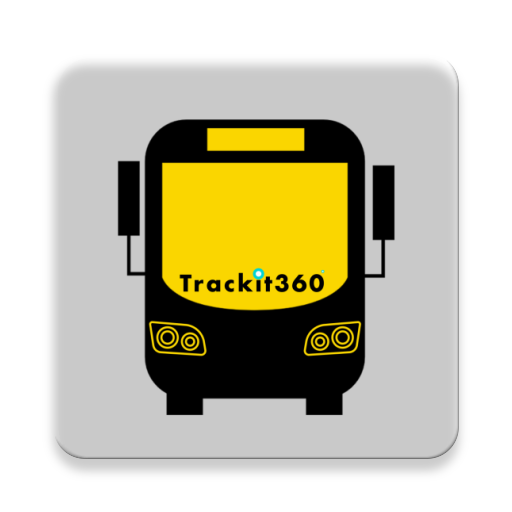
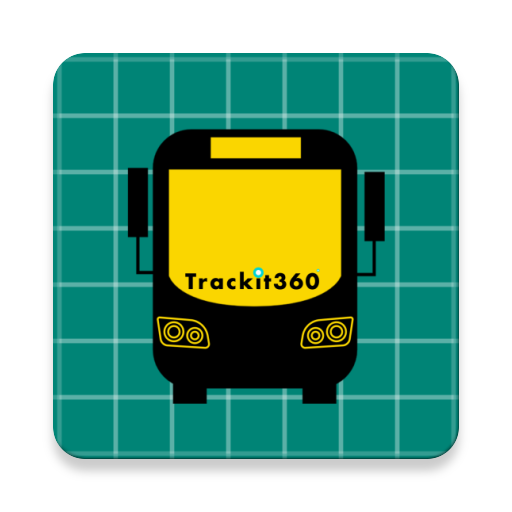
Notification  Commit

diff --git a/app/src/main/java/com/ampwork/driverapp/activity/BusStatusActivity.java b/app/src/main/java/com/ampwork/driverapp/activity/BusStatusActivity.java
@@ -98,7 +98,7 @@ import java.util.Set;
 
 public class BusStatusActivity extends AppCompatActivity implements OnMapReadyCallback, NavigationView.OnNavigationItemSelectedListener {
 
-    private TextView navHeaderTitleTv, navHeaderSubTitleTv, navHeaderSubTitle2Tv,busDistanceTv, speedTV, nextStopTv, timerTV;
+    private TextView navHeaderTitleTv, navHeaderSubTitleTv, navHeaderSubTitle2Tv, busDistanceTv, speedTV, nextStopTv, timerTV;
     private Button startBtn, stopBtn;
     private LinearLayout rideStatusLayout, busDistanceLayout;
     ExtendedFloatingActionButton fab_bell, fab_fuel;
@@ -185,7 +185,7 @@ public class BusStatusActivity extends AppCompatActivity implements OnMapReadyCa
                     } else {
                         updateScreenUI(null, null);
                     }
-                } else if (intent.getAction().equalsIgnoreCase(AppConstant.STR_NOTIFICATION_FILTER)){
+                } else if (intent.getAction().equalsIgnoreCase(AppConstant.STR_NOTIFICATION_FILTER)) {
                     preferencesManager.setBooleanValue(AppConstant.PREF_NOTIFICATION_ARRIVED, true);
                     showNotificationBadge();
 
@@ -218,10 +218,10 @@ public class BusStatusActivity extends AppCompatActivity implements OnMapReadyCa
             @Override
             public void onClick(View view) {
 
-                if(preferencesManager.getBooleanValue(AppConstant.PREF_TRIP_COMPLETED)){
+                if (preferencesManager.getBooleanValue(AppConstant.PREF_TRIP_COMPLETED)) {
                     fab_bell.shrink(true);
                     stopTrip();
-                }else {
+                } else if (preferencesManager.getBooleanValue(AppConstant.PREF_IS_DRIVING)) {
                     final AlertDialog dialog = new MaterialAlertDialogBuilder(BusStatusActivity.this, R.style.ThemeOverlay_MaterialComponents_MaterialAlertDialog)
                             .setTitle("You want to stop the trip?")
                             .setCancelable(false)
@@ -241,7 +241,6 @@ public class BusStatusActivity extends AppCompatActivity implements OnMapReadyCa
                             })
                             .show();
                 }
-
 
 
             }
@@ -282,7 +281,6 @@ public class BusStatusActivity extends AppCompatActivity implements OnMapReadyCa
         if (preferencesManager.getBooleanValue(AppConstant.PREF_NOTIFICATION_ARRIVED)) {
             showNotificationBadge();
         }
-
 
 
         navigationView.setNavigationItemSelectedListener(this);
@@ -348,9 +346,9 @@ public class BusStatusActivity extends AppCompatActivity implements OnMapReadyCa
 
         if (busStopsArrayList != null && busStopsArrayList.size() > 0) {
 
-            // Register Geofence
+          /*  // Register Geofence
             mGeoFencing.updateGeofencesList(busStopsArrayList);
-            mGeoFencing.registerAllGeofences();
+            mGeoFencing.registerAllGeofences();*/
 
             drive_direction = preferencesManager.getStringValue(AppConstant.PREF_DRIVING_DIRECTION);
 
@@ -620,9 +618,9 @@ public class BusStatusActivity extends AppCompatActivity implements OnMapReadyCa
         Boolean isSosPressed = preferencesManager.getBooleanValue(AppConstant.PREF_DRIVER_SOS);
         MenuItem item = menu.getItem(0);
         SpannableString s = new SpannableString(getResources().getString(R.string.action_sos));
-        if(isSosPressed){
+        if (isSosPressed) {
             s.setSpan(new ForegroundColorSpan(getResources().getColor(R.color.error_color)), 0, s.length(), 0);
-        }else {
+        } else {
             s.setSpan(new ForegroundColorSpan(getResources().getColor(R.color.secondaryColor)), 0, s.length(), 0);
         }
 
@@ -648,7 +646,7 @@ public class BusStatusActivity extends AppCompatActivity implements OnMapReadyCa
     }
 
     private void enableSOS() {
-        
+
         Boolean is_driving = preferencesManager.getBooleanValue(AppConstant.PREF_IS_DRIVING);
         Boolean is_sos_pressed = preferencesManager.getBooleanValue(AppConstant.PREF_DRIVER_SOS);
         final String institute_key = preferencesManager.getStringValue(AppConstant.PREF_DRIVER_INSTITUTE_KEY);
@@ -661,7 +659,7 @@ public class BusStatusActivity extends AppCompatActivity implements OnMapReadyCa
                     preferencesManager.setBooleanValue(AppConstant.PREF_DRIVER_SOS, true);
                     invalidateOptionsMenu();
                     Toast.makeText(BusStatusActivity.this, "SOS is successfull..", Toast.LENGTH_SHORT).show();
-                    addSosToLog(institute_key,bus_tracking_key);
+                    addSosToLog(institute_key, bus_tracking_key);
                 }
             }).addOnFailureListener(new OnFailureListener() {
                 @Override
@@ -752,8 +750,8 @@ public class BusStatusActivity extends AppCompatActivity implements OnMapReadyCa
 
                     preferencesManager.setStringValue(AppConstant.PREF_BUS_PATH, "");
                     preferencesManager.setStringValue(AppConstant.PREF_BUS_FULL_PATH, "");
-                    preferencesManager.setFloatValue(AppConstant.PREF_BUS_DISATNCE_COVERED,  0.0f);
-                    preferencesManager.setFloatValue(AppConstant.PREF_BUS_SPEED,  0.0f);
+                    preferencesManager.setFloatValue(AppConstant.PREF_BUS_DISATNCE_COVERED, 0.0f);
+                    preferencesManager.setFloatValue(AppConstant.PREF_BUS_SPEED, 0.0f);
                     preferencesManager.setBooleanValue(AppConstant.PREF_TRACK_ENABLED, false);
                     preferencesManager.setBooleanValue(AppConstant.PREF_DEST_REACHED, false);
                     preferencesManager.setBooleanValue(AppConstant.PREF_TRIP_COMPLETED, false);
@@ -788,7 +786,7 @@ public class BusStatusActivity extends AppCompatActivity implements OnMapReadyCa
         String tripDistance = preferencesManager.getStringValue(AppConstant.PREF_DRIVER_TOTAL_TRIP_DISTANCE);
 
         Driver driver = new Driver(bloodgroup, driverDL, driverId, driverName, driverPhone, emergency, gender, institute, password, fcmToken
-                , totalTrips, tripDistance,true);
+                , totalTrips, tripDistance, true);
 
         return driver;
     }
@@ -925,7 +923,7 @@ public class BusStatusActivity extends AppCompatActivity implements OnMapReadyCa
         String mileage = preferencesManager.getStringValue(AppConstant.PREF_MILEAGE);
 
         LiveBusDetail liveBusDetail = new LiveBusDetail(busLocation, busName, busNumber, busPath, departureTime, destinationReached, direction, driverId, driverName, driving, endPoint, institute, nextStopName, nextStopOrderId, odometerReading, routeId, routeName, startPoint, trackEnabled, tripCompleted, sos, driverSos, bellCounts,
-                totalDistance, totalFuel, totalTrips, tripDistance,mileage);
+                totalDistance, totalFuel, totalTrips, tripDistance, mileage);
 
         return liveBusDetail;
 
@@ -1138,9 +1136,9 @@ public class BusStatusActivity extends AppCompatActivity implements OnMapReadyCa
                                 startService(trackingIntent);
                                 // bindService(liveTrackingIntent, mConnection, Context.BIND_AUTO_CREATE);
 
-                                // Register Geofence
+                              /*  // Register Geofence
                                 mGeoFencing.updateGeofencesList(busStopsArrayList);
-                                mGeoFencing.registerAllGeofences();
+                                mGeoFencing.registerAllGeofences();*/
 
                                 //Notify the user that tracking has been enabled//
                                 Log.d(TAG, "onSuccess: GPS tracking enabled");
@@ -1228,13 +1226,14 @@ public class BusStatusActivity extends AppCompatActivity implements OnMapReadyCa
                 String nextStopOrder = preferencesManager.getStringValue(AppConstant.PREF_NEXT_STOP_ORDER);
                 String startPointOrder = preferencesManager.getStringValue(AppConstant.PREF_START_POINT_ID);
 
-                if (nextStopOrder.equalsIgnoreCase(startPointOrder)) {
+                if (nextStopOrder.equalsIgnoreCase(startPointOrder) || preferencesManager.getBooleanValue(AppConstant.PREF_CHECK_NEARBY_STUDENTS)) {
                     nextStopTv.setText(nextStopName);
                 } else {
                     nextStopTv.setText("Next Stop : " + nextStopName);
                 }
             }
         }
+
         if (location != null) {
             Boolean is_track_enabled = preferencesManager.getBooleanValue(AppConstant.PREF_TRACK_ENABLED);
             Boolean is_destination_reached = preferencesManager.getBooleanValue(AppConstant.PREF_DEST_REACHED);
@@ -1274,7 +1273,7 @@ public class BusStatusActivity extends AppCompatActivity implements OnMapReadyCa
 
                 // Set busmarker title
                 BusStops busMarkerData = new BusStops();
-                busMarkerData.setBusStopName(preferencesManager.getStringValue(AppConstant.PREF_BUS_NAME ));
+                busMarkerData.setBusStopName(preferencesManager.getStringValue(AppConstant.PREF_BUS_NAME));
                 busMarker.setTag(busMarkerData);
 
                /* //marker.setPosition(bus_location);
@@ -1290,7 +1289,7 @@ public class BusStatusActivity extends AppCompatActivity implements OnMapReadyCa
                 Bitmap smallCar = Bitmap.createScaledBitmap(b, 84, 96, false);
                 markerOptions1.icon(BitmapDescriptorFactory.fromBitmap(smallCar));
                 markerOptions1.position(bus_location);
-                markerOptions1.title(preferencesManager.getStringValue(AppConstant.PREF_BUS_NAME )+ " - " +
+                markerOptions1.title(preferencesManager.getStringValue(AppConstant.PREF_BUS_NAME) + " - " +
                         preferencesManager.getStringValue(AppConstant.PREF_ROUTE_NAME));
 
 
@@ -1432,11 +1431,11 @@ public class BusStatusActivity extends AppCompatActivity implements OnMapReadyCa
             // Handle the camera action
         } else if (id == R.id.nav_notification) {
             hideNotificationBadge();
-            Intent notificationIntent = new Intent(BusStatusActivity.this,NotificationActivity.class);
+            Intent notificationIntent = new Intent(BusStatusActivity.this, NotificationActivity.class);
             startActivity(notificationIntent);
 
         } else if (id == R.id.nav_trips) {
-            Intent tripListIntent = new Intent(BusStatusActivity.this,TripListActivity.class);
+            Intent tripListIntent = new Intent(BusStatusActivity.this, TripListActivity.class);
             startActivity(tripListIntent);
 
 
@@ -1445,7 +1444,7 @@ public class BusStatusActivity extends AppCompatActivity implements OnMapReadyCa
             startActivity(busDetailIntent);
 
         } else if (id == R.id.nav_settings) {
-            Intent settingsIntent = new Intent(BusStatusActivity.this,SettingsActivity.class);
+            Intent settingsIntent = new Intent(BusStatusActivity.this, SettingsActivity.class);
             startActivity(settingsIntent);
 
         } else if (id == R.id.nav_logout) {

diff --git a/app/src/main/java/com/ampwork/driverapp/service/LiveTrackingService.java b/app/src/main/java/com/ampwork/driverapp/service/LiveTrackingService.java
@@ -146,10 +146,8 @@ public class LiveTrackingService extends Service implements ArrivalTimeCallBack 
 
     @Override
     public int onStartCommand(Intent intent, int flags, int startId) {
-
         busStopsArrayList = intent.getParcelableArrayListExtra("bus_stops_list");
         return START_NOT_STICKY;
-        // return super.onStartCommand(intent, flags, startId);
 
     }
 
@@ -174,16 +172,14 @@ public class LiveTrackingService extends Service implements ArrivalTimeCallBack 
 
                     .setOngoing(true)
                     //.setContentIntent(broadcastIntent)
-                    .setSmallIcon(R.mipmap.ic_launcher);
+                    .setSmallIcon(R.mipmap.ic_app_launcher);
         } else {
             builder = new Notification.Builder(this)
                     .setContentTitle(getString(R.string.app_name))
                     .setContentText("updating bus location..")
-                    //Make this notification ongoing so it can’t be dismissed by the user//
-
                     .setOngoing(true)
                     //.setContentIntent(broadcastIntent)
-                    .setSmallIcon(R.mipmap.ic_launcher);
+                    .setSmallIcon(R.mipmap.ic_app_launcher);
         }
         startForeground(1, builder.build());
     }
@@ -314,8 +310,62 @@ public class LiveTrackingService extends Service implements ArrivalTimeCallBack 
 
         }
 
+        if(!is_trip_completed){
+            int nextOrder = Integer.parseInt(preferencesManager.getStringValue(AppConstant.PREF_NEXT_STOP_ORDER));
+            BusStops busStops = busStopsArrayList.get(nextOrder);
+            Location nextStopLoc = AppUtility.strToLocation(busStops.getLatitude()+","+busStops.getLongitude());
+            float distance = location.distanceTo(nextStopLoc);
+            if(distance < 50){
+               String currentStopOrderId = nextStopOrderId;
+                preferencesManager.setBooleanValue(AppConstant.PREF_CHECK_NEARBY_STUDENTS, true);
+               if(!is_track_enabled){
+                   is_track_enabled = true;
+                   preferencesManager.setBooleanValue(AppConstant.PREF_TRACK_ENABLED,true);
+               }else if(currentStopOrderId.equalsIgnoreCase(endPoint)){
+                   is_destination_reached = true;
+                   is_trip_completed = true;
+                   preferencesManager.setBooleanValue(AppConstant.PREF_DEST_REACHED,true);
+                   preferencesManager.setBooleanValue(AppConstant.PREF_TRIP_COMPLETED,true);
+               }
+            }else if(distance>100) {
+                if(preferencesManager.getBooleanValue(AppConstant.PREF_CHECK_NEARBY_STUDENTS)){
+                    int next_stop_order = Integer.parseInt(nextStopOrderId);
+                    if (direction.equalsIgnoreCase("-1")) {
+                        next_stop_order = Integer.parseInt(nextStopOrderId) + 1;
+                    }else if (direction.equalsIgnoreCase("1")){
+                         next_stop_order = Integer.parseInt(nextStopOrderId) - 1;
+                    }
 
-      /*  if(!is_track_enabled){
+                    nextStopOrderId = String.valueOf(next_stop_order);
+                    nextStopName = busStopsArrayList.get(next_stop_order).getBusStopName();
+
+                    preferencesManager.setStringValue(AppConstant.PREF_NEXT_STOP, nextStopName);
+                    preferencesManager.setStringValue(AppConstant.PREF_NEXT_STOP_ORDER, nextStopOrderId);
+
+                    preferencesManager.setBooleanValue(AppConstant.PREF_CHECK_NEARBY_STUDENTS, false);
+
+                    String busStopsCovered = preferencesManager.getStringValue(AppConstant.PREF_BUS_STOPS_COVERED);
+                    if (!busStopsCovered.contains(busStops.getBusStopOrder())) {
+                        busStopsCovered = busStopsCovered + "," + busStops.getBusStopOrder();
+                        preferencesManager.setStringValue(AppConstant.PREF_BUS_STOPS_COVERED, busStopsCovered);
+                    }
+
+                    String institute_key = preferencesManager.getStringValue(AppConstant.PREF_DRIVER_INSTITUTE_KEY);
+                    String bus_key = preferencesManager.getStringValue(AppConstant.PREF_BUS_TRACKING_KEY);
+
+                    DatabaseReference databaseReference = FirebaseDatabase.getInstance().getReference(AppConstant.PREF_STR_BUSTRACKING_TB);
+                    HashMap<String, Object> objectHashMap = new HashMap<>();
+                    objectHashMap.put(AppConstant.PREF_STR_BELL_COUNTS, "0");
+                    databaseReference.child(institute_key).child(bus_key).updateChildren(objectHashMap);
+
+                }
+
+            }
+        }
+
+
+
+      /* if(!is_track_enabled){
             if (direction.equalsIgnoreCase("-1")) {
                 BusStops busStops = busStopsArrayList.get(0);
                 double distance = AppUtility.meterDistanceBetweenPoints((float) location.getLatitude(), (float) location.getLongitude(), Float.valueOf(busStops.getLatitude()), Float.valueOf(busStops.getLongitude()));
@@ -379,4 +429,5 @@ public class LiveTrackingService extends Service implements ArrivalTimeCallBack 
     private void stopLocationUpdates() {
         fusedLocationProviderClient.removeLocationUpdates(locationCallback);
     }
+
 }

diff --git a/app/src/main/java/com/ampwork/driverapp/geofencing/GeofenceTransitionsIntentService.java b/app/src/main/java/com/ampwork/driverapp/geofencing/GeofenceTransitionsIntentService.java
@@ -67,6 +67,8 @@ public class GeofenceTransitionsIntentService extends JobIntentService implement
 
         Geofence geofence = triggeringGeofences.get(0);
 
+        Log.d(TAG, "onHandleWork: "+ geofence.getRequestId() + " list siz" + triggeringGeofences.size() + " transition" + geofenceTransition );
+
         String stop_order = geofence.getRequestId();
         DBHelper.init(this);
         BusStops busStops = DBHelper.getBusStopData(stop_order);
@@ -249,7 +251,7 @@ public class GeofenceTransitionsIntentService extends JobIntentService implement
 
             }
 
-            String nextStopName = preferencesManager.getStringValue(AppConstant.PREF_NEXT_STOP);
+          /*  String nextStopName = preferencesManager.getStringValue(AppConstant.PREF_NEXT_STOP);
             String nextStopOrderId = preferencesManager.getStringValue(AppConstant.PREF_NEXT_STOP_ORDER);
 
             HashMap<String, Object> objectHashMap = LiveBusDetail.getBusStopsUpdateObj(is_destination_reached, nextStopName, nextStopOrderId, is_track_enabled, is_trip_completed);
@@ -258,7 +260,7 @@ public class GeofenceTransitionsIntentService extends JobIntentService implement
 
             DatabaseReference databaseReference = FirebaseDatabase.getInstance().getReference("bus_tracking_tb/" + institute_key + "/" + bus_key);
             databaseReference.updateChildren(objectHashMap);
-
+*/
 
         }
         broadCastData(nextBusStop);

diff --git a/app/src/main/java/com/ampwork/driverapp/geofencing/GeoFencing.java b/app/src/main/java/com/ampwork/driverapp/geofencing/GeoFencing.java
@@ -30,8 +30,8 @@ import java.util.Map;
 public class GeoFencing {
     // Constants
     public static final String TAG = "Geofencing";
-    private static final float GEOFENCE_RADIUS = 80.0f;
-    private static final long GEOFENCE_TIMEOUT = Geofence.NEVER_EXPIRE;//24 * 60 * 60 * 1000; // 24 hours
+    private static final float GEOFENCE_RADIUS = 100.0f;
+    private static final long GEOFENCE_TIMEOUT = Geofence.NEVER_EXPIRE;
 
     private GeofencingClient geofencingClient;
     private List<Geofence> mGeofenceList;
